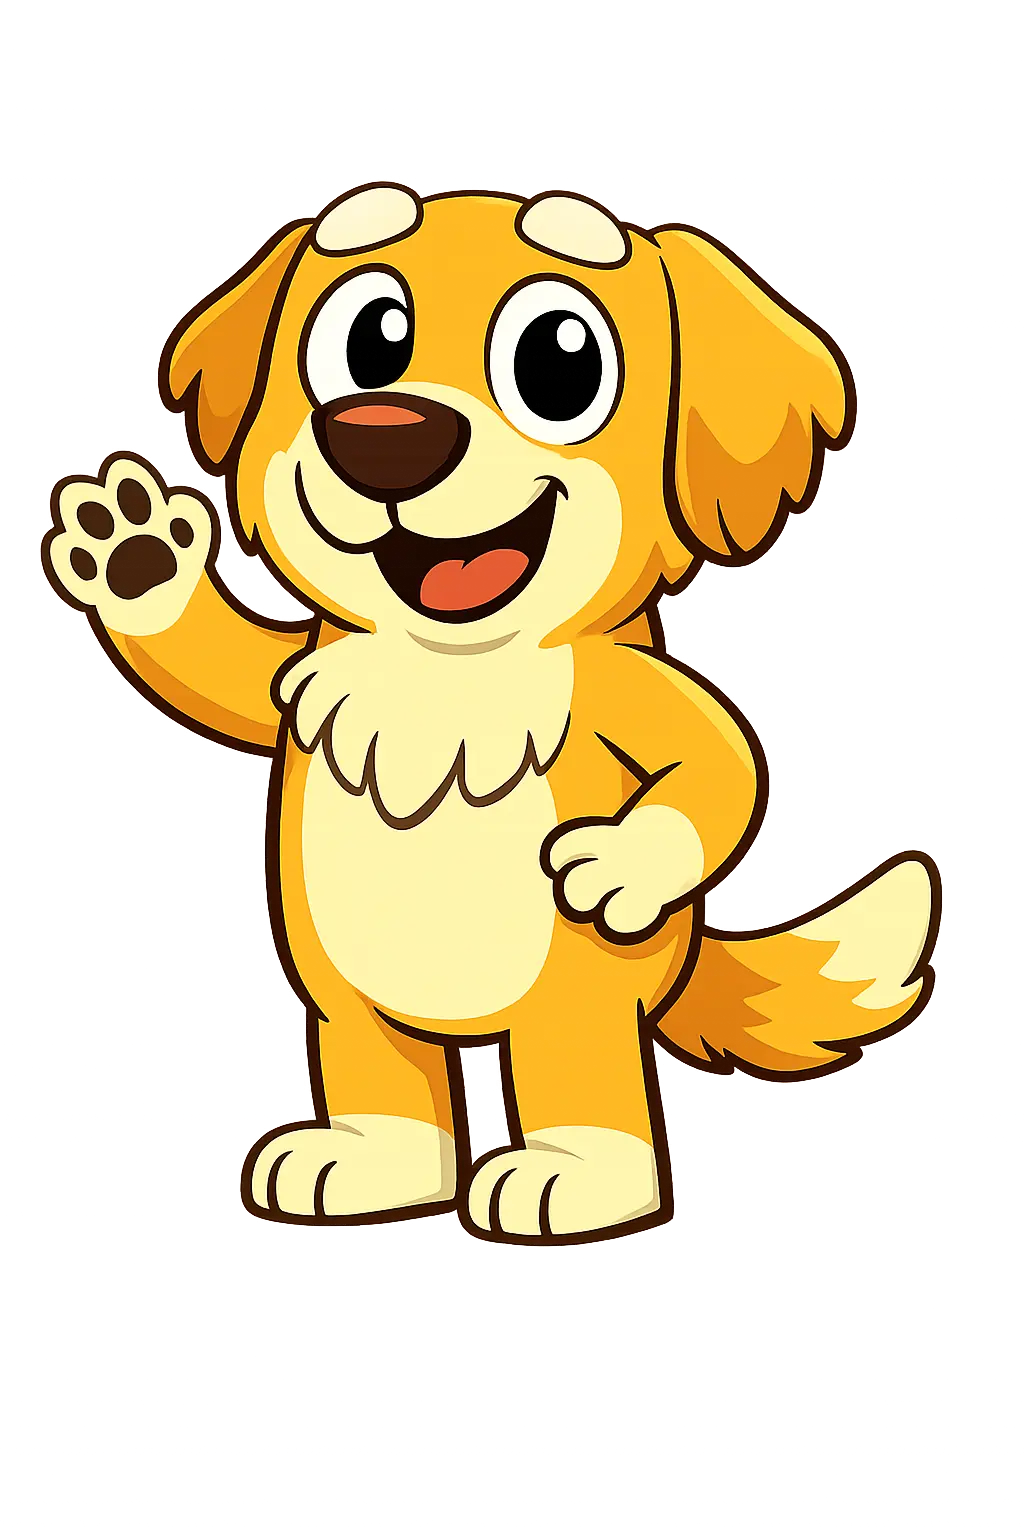
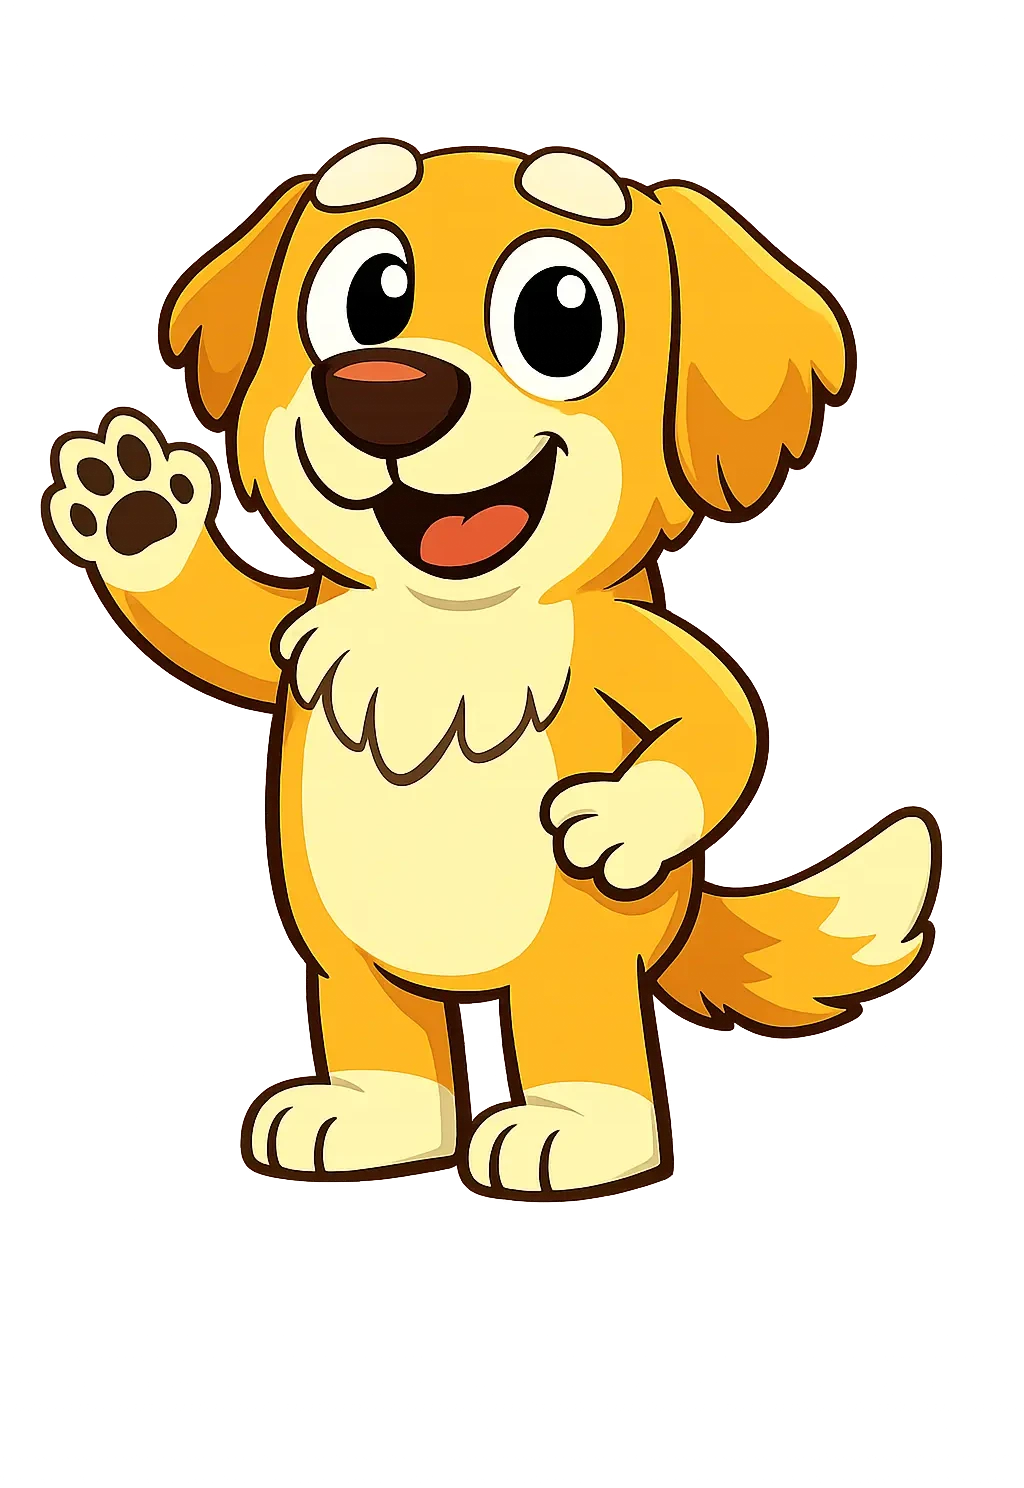
Crop DanielTheDog.webp and revert sidekick height to 100%
Trimmed transparent space from Daniel image so both characters
render at the same visual size on the cover page.

Changed region(s): [[0.0312, 0.0927, 0.9375, 0.8347], [0.5, 0.6183, 0.5312, 0.6492]]

diff --git a/supabase/functions/generate-module/index.ts b/supabase/functions/generate-module/index.ts
@@ -2952,7 +2952,7 @@ function renderCoverPage(content: GeneratedContent, seriesInfo?: SeriesInfo | nu
   // Sidekick image for cover
   const sidekickCoverHtml = (() => {
     if (seriesInfo?.character_image_url) {
-      return `<img src="${escapeForTemplate(seriesInfo.character_image_url)}" alt="${escapeForTemplate(metadata.sidekickName || '')}" class="object-contain mx-auto drop-shadow-xl" style="height: 85%; width: auto;">`;
+      return `<img src="${escapeForTemplate(seriesInfo.character_image_url)}" alt="${escapeForTemplate(metadata.sidekickName || '')}" class="object-contain mx-auto drop-shadow-xl" style="height: 100%; width: auto;">`;
     }
     if (metadata.sidekickEmoji) {
       return `<span style="font-size: 5rem;">${escapeForTemplate(metadata.sidekickEmoji)}</span>`;
